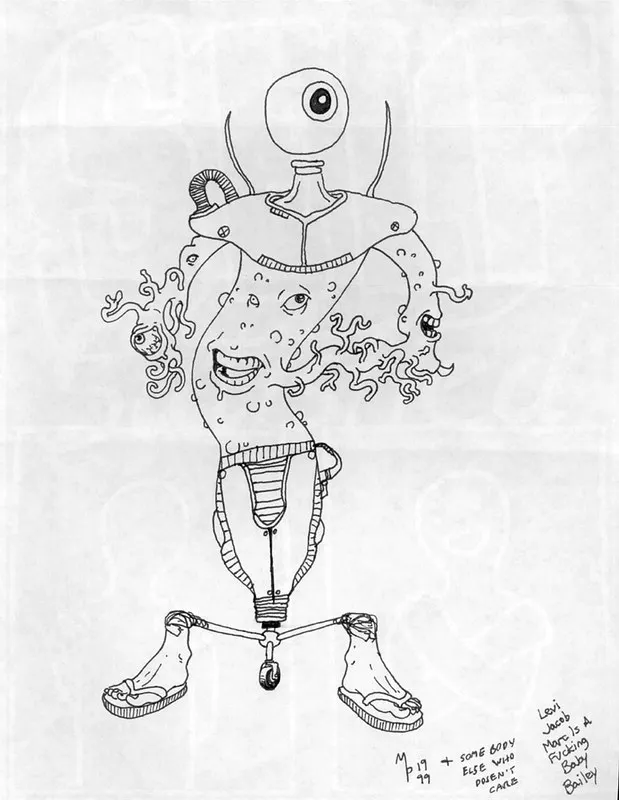
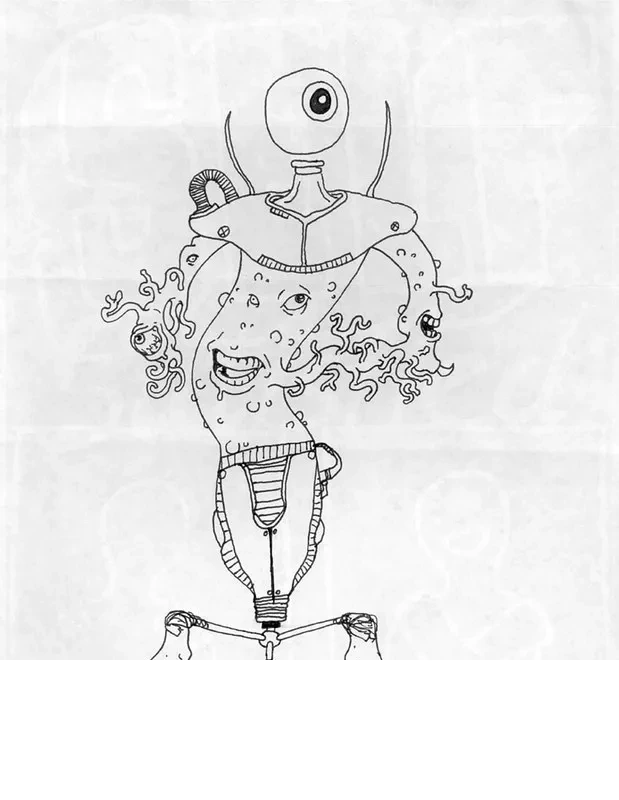
fix: erase handwritten notes from EC image; remove clip-path workaround

diff --git a/index.html b/index.html
@@ -223,9 +223,6 @@ a { color: inherit; text-decoration: none; }
 .ec-img-frame img {
   width: 100%; height: auto; display: block;
   filter: invert(1) contrast(1.8) brightness(1.05);
-  /* Clip handwritten notes from bottom ~16% */
-  clip-path: inset(0 0 16% 0);
-  margin-bottom: -16%;
   opacity: 0; transform: translateY(24px);
   transition: opacity 0.9s cubic-bezier(0.16,1,0.3,1), transform 0.9s cubic-bezier(0.16,1,0.3,1);
 }
